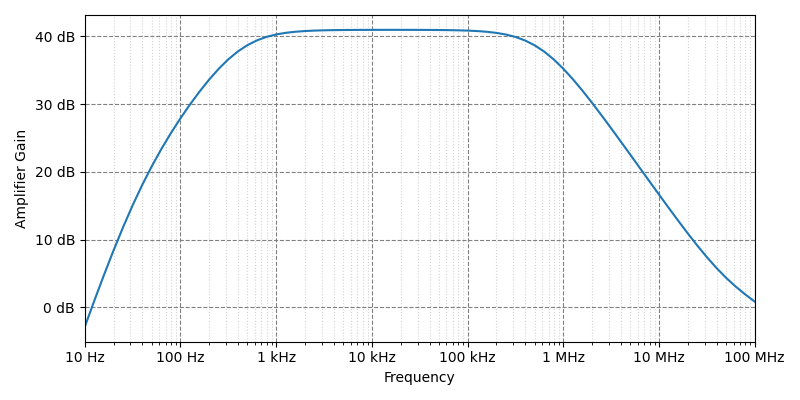
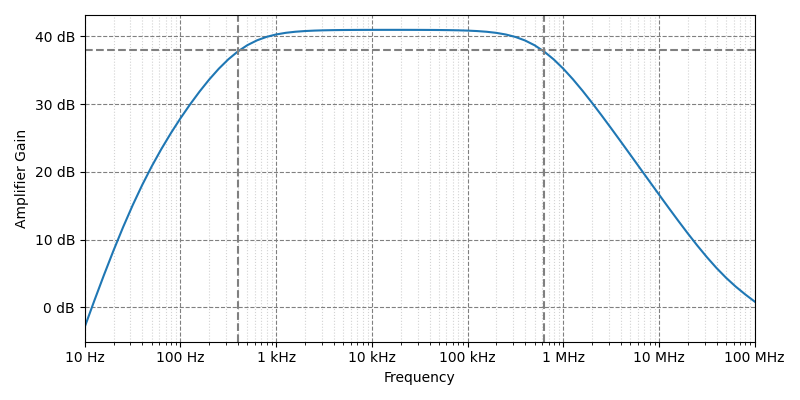
find midband gain of amp

Changed region(s): [[0.125, 0.12, 0.9375, 0.15]]

diff --git a/bjt-amp-lab/source code/CC-freq.py b/bjt-amp-lab/source code/CC-freq.py
@@ -21,7 +21,10 @@ def main():
                                  == np.around(vout, decimals=0))
     low_cutoff_freq = freq[freq_cutoff_index[0][0]]
     high_cutoff_freq = freq[freq_cutoff_index[0][2]]
-    print(f'Bandwidth: {high_cutoff_freq - low_cutoff_freq} Hz')
+    print(
+        f'Bandwidth: {np.around((high_cutoff_freq - low_cutoff_freq) / 1000000, decimals=2)} MHz')
+    print(
+        f'Amplifier gain at midband: {np.around(np.max(raw_vout), decimals=2)}')
 
     figure, axis1 = plt.subplots(figsize=(8, 4))
     axis1.set_xscale('log')
